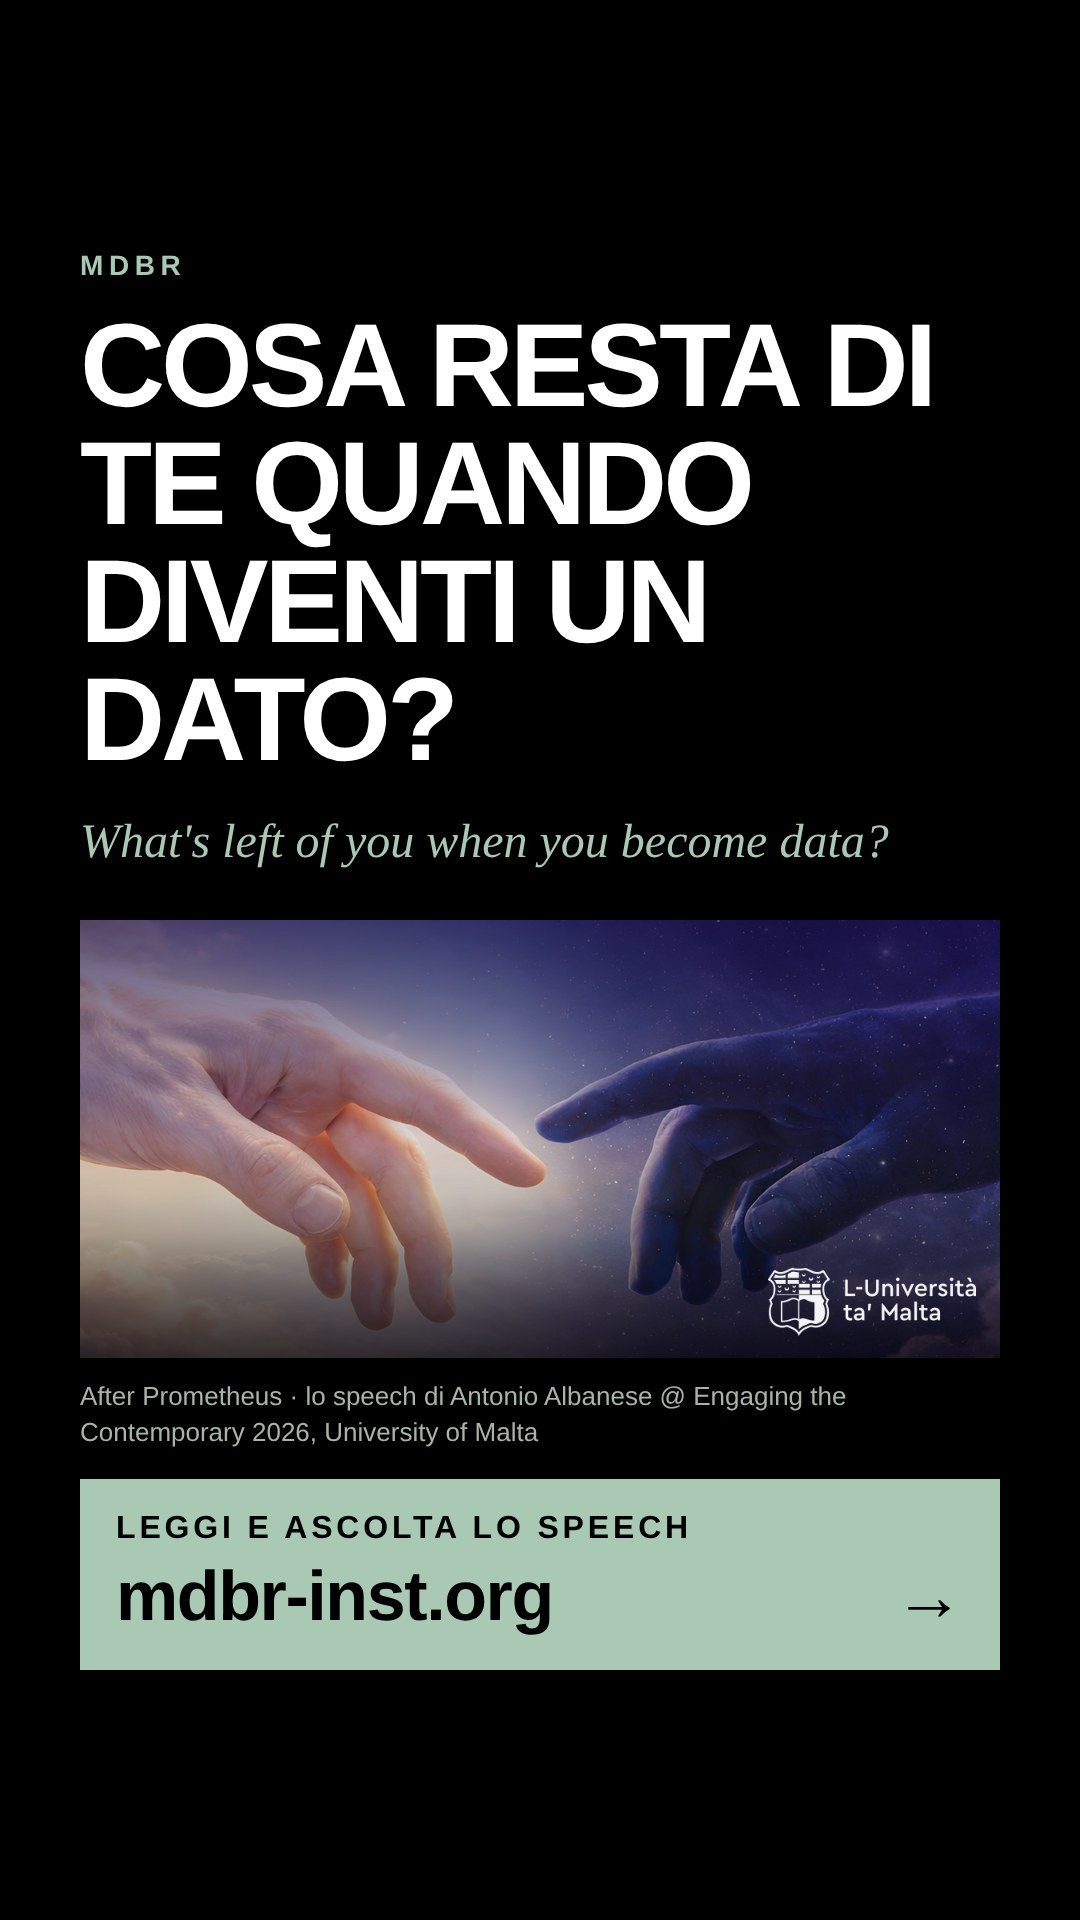
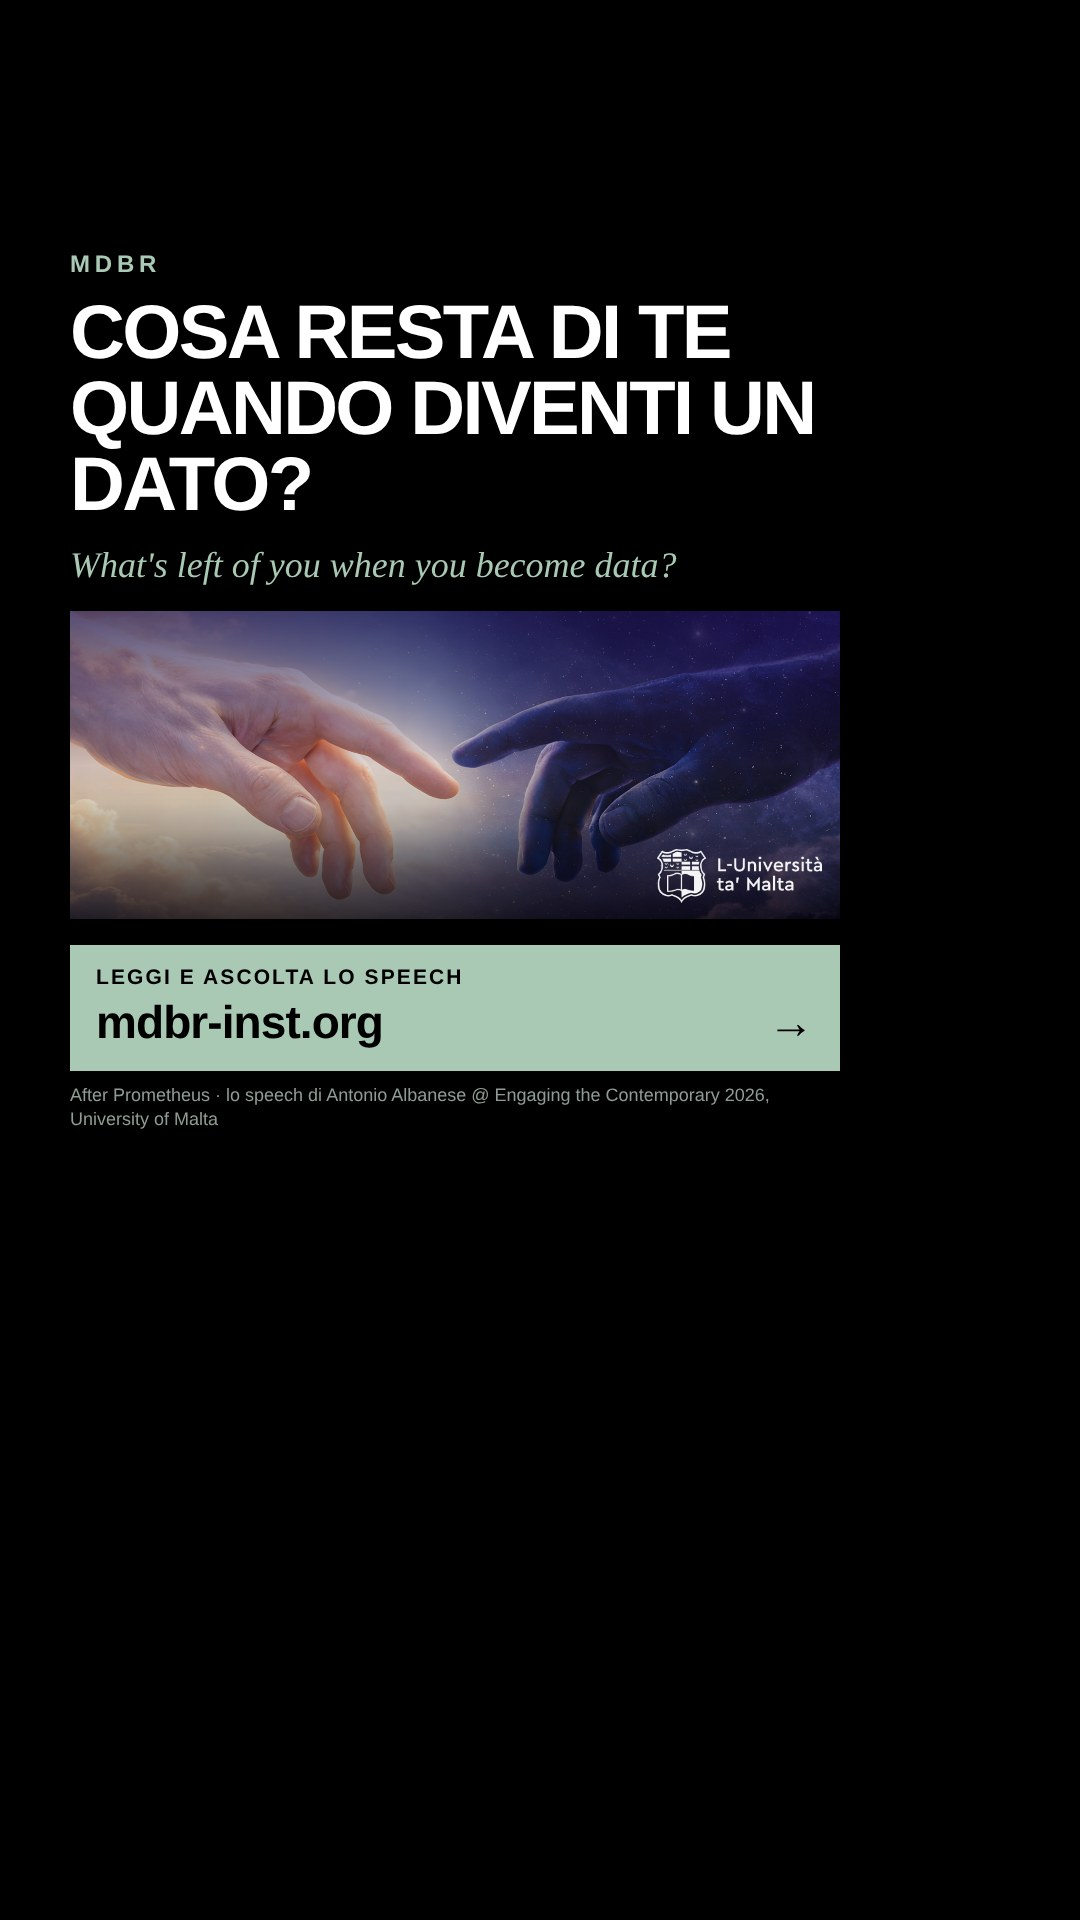
Card TikTok: contenuto nella zona visibile, lontano da didascalia, icone e barra di ricerca
Claude-Session: https://claude.ai/code/session_01Hsg1yjSxfM1i1xQ1f2Qe3u

diff --git a/talks/after-prometheus/en/index.html b/talks/after-prometheus/en/index.html
@@ -134,7 +134,7 @@ E voi: che cosa, della vita, l&#x27;intelligenza artificiale non può misurare?
 
 What about you: what, of life, can artificial intelligence not measure?
 
-#philosophy #artificialintelligence #Prometheus #ethics" data-story-it="/assets/story/after-prometheus-it.jpg?v=3" data-story-tt-it="/assets/story/after-prometheus-tt-it.jpg?v=3" data-story-tt-en="/assets/story/after-prometheus-tt-en.jpg?v=3" data-cap-tt-it="Cosa resta di te quando diventi un dato? 🔥
+#philosophy #artificialintelligence #Prometheus #ethics" data-story-it="/assets/story/after-prometheus-it.jpg?v=3" data-story-tt-it="/assets/story/after-prometheus-tt-it.jpg?v=4" data-story-tt-en="/assets/story/after-prometheus-tt-en.jpg?v=4" data-cap-tt-it="Cosa resta di te quando diventi un dato? 🔥
 🇬🇧 What&#x27;s left of you when you become data?
 
 🇮🇹 After Prometheus: lo speech di Antonio Albanese @ Engaging the Contemporary 2026, University of Malta. Da Eschilo agli LLM, il mito di Prometeo e il logos calcolato. Tu cosa ne pensi? Scrivilo nei commenti 👇

diff --git a/talks/after-prometheus/index.html b/talks/after-prometheus/index.html
@@ -134,7 +134,7 @@ E voi: che cosa, della vita, l&#x27;intelligenza artificiale non può misurare?
 
 What about you: what, of life, can artificial intelligence not measure?
 
-#philosophy #artificialintelligence #Prometheus #ethics" data-story-it="/assets/story/after-prometheus-it.jpg?v=3" data-story-tt-it="/assets/story/after-prometheus-tt-it.jpg?v=3" data-story-tt-en="/assets/story/after-prometheus-tt-en.jpg?v=3" data-cap-tt-it="Cosa resta di te quando diventi un dato? 🔥
+#philosophy #artificialintelligence #Prometheus #ethics" data-story-it="/assets/story/after-prometheus-it.jpg?v=3" data-story-tt-it="/assets/story/after-prometheus-tt-it.jpg?v=4" data-story-tt-en="/assets/story/after-prometheus-tt-en.jpg?v=4" data-cap-tt-it="Cosa resta di te quando diventi un dato? 🔥
 🇬🇧 What&#x27;s left of you when you become data?
 
 🇮🇹 After Prometheus: lo speech di Antonio Albanese @ Engaging the Contemporary 2026, University of Malta. Da Eschilo agli LLM, il mito di Prometeo e il logos calcolato. Tu cosa ne pensi? Scrivilo nei commenti 👇

diff --git a/notes/lavoro-intelligente/en/index.html b/notes/lavoro-intelligente/en/index.html
@@ -64,7 +64,7 @@ At the Jobless Society Forum at Fondazione MAST in Bologna, artificial intellige
 
 What do you think: does work remain a human place?
 
-#philosophy #artificialintelligence #futureofwork #ethics" data-story-it="/assets/story/lavoro-intelligente-it.jpg?v=3" data-story-tt-it="/assets/story/lavoro-intelligente-tt-it.jpg?v=3" data-story-tt-en="/assets/story/lavoro-intelligente-tt-en.jpg?v=3" data-cap-tt-it="Se l&#x27;AI fa il tuo lavoro, tu chi sei? 🤖
+#philosophy #artificialintelligence #futureofwork #ethics" data-story-it="/assets/story/lavoro-intelligente-it.jpg?v=3" data-story-tt-it="/assets/story/lavoro-intelligente-tt-it.jpg?v=4" data-story-tt-en="/assets/story/lavoro-intelligente-tt-en.jpg?v=4" data-cap-tt-it="Se l&#x27;AI fa il tuo lavoro, tu chi sei? 🤖
 🇬🇧 If AI does your job, who are you?
 
 🇮🇹 Una nota filosofica dal Jobless Society Forum, Fondazione MAST di Bologna. Le macchine che parlano lavorano anche meglio: ma a cosa lavora questo lavoro? Tu cosa ne pensi? Scrivilo nei commenti 👇

diff --git a/notes/lavoro-intelligente/index.html b/notes/lavoro-intelligente/index.html
@@ -64,7 +64,7 @@ At the Jobless Society Forum at Fondazione MAST in Bologna, artificial intellige
 
 What do you think: does work remain a human place?
 
-#philosophy #artificialintelligence #futureofwork #ethics" data-story-it="/assets/story/lavoro-intelligente-it.jpg?v=3" data-story-tt-it="/assets/story/lavoro-intelligente-tt-it.jpg?v=3" data-story-tt-en="/assets/story/lavoro-intelligente-tt-en.jpg?v=3" data-cap-tt-it="Se l&#x27;AI fa il tuo lavoro, tu chi sei? 🤖
+#philosophy #artificialintelligence #futureofwork #ethics" data-story-it="/assets/story/lavoro-intelligente-it.jpg?v=3" data-story-tt-it="/assets/story/lavoro-intelligente-tt-it.jpg?v=4" data-story-tt-en="/assets/story/lavoro-intelligente-tt-en.jpg?v=4" data-cap-tt-it="Se l&#x27;AI fa il tuo lavoro, tu chi sei? 🤖
 🇬🇧 If AI does your job, who are you?
 
 🇮🇹 Una nota filosofica dal Jobless Society Forum, Fondazione MAST di Bologna. Le macchine che parlano lavorano anche meglio: ma a cosa lavora questo lavoro? Tu cosa ne pensi? Scrivilo nei commenti 👇
